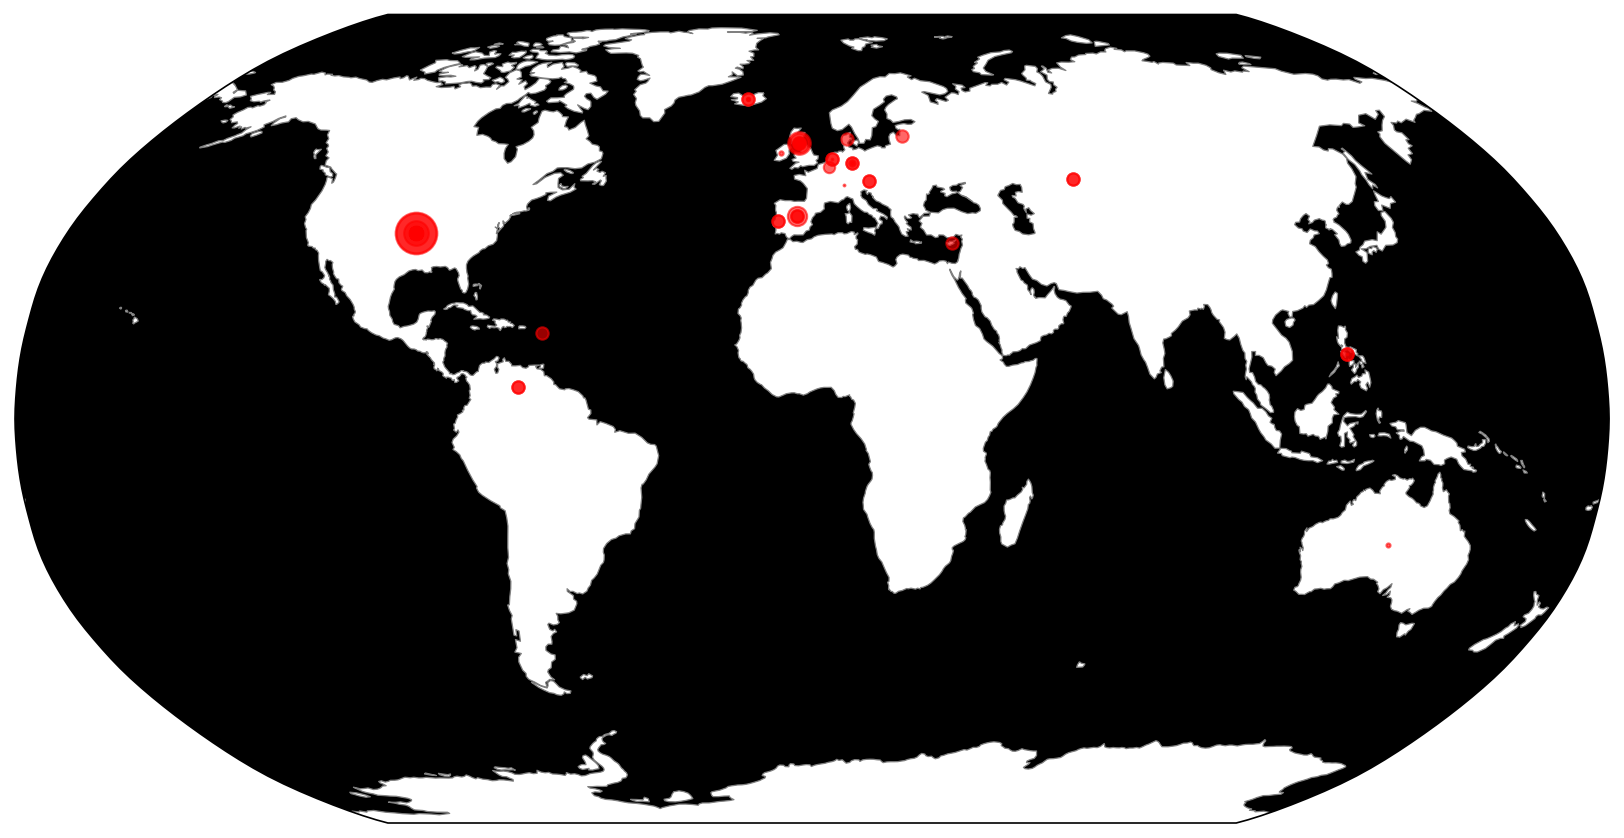
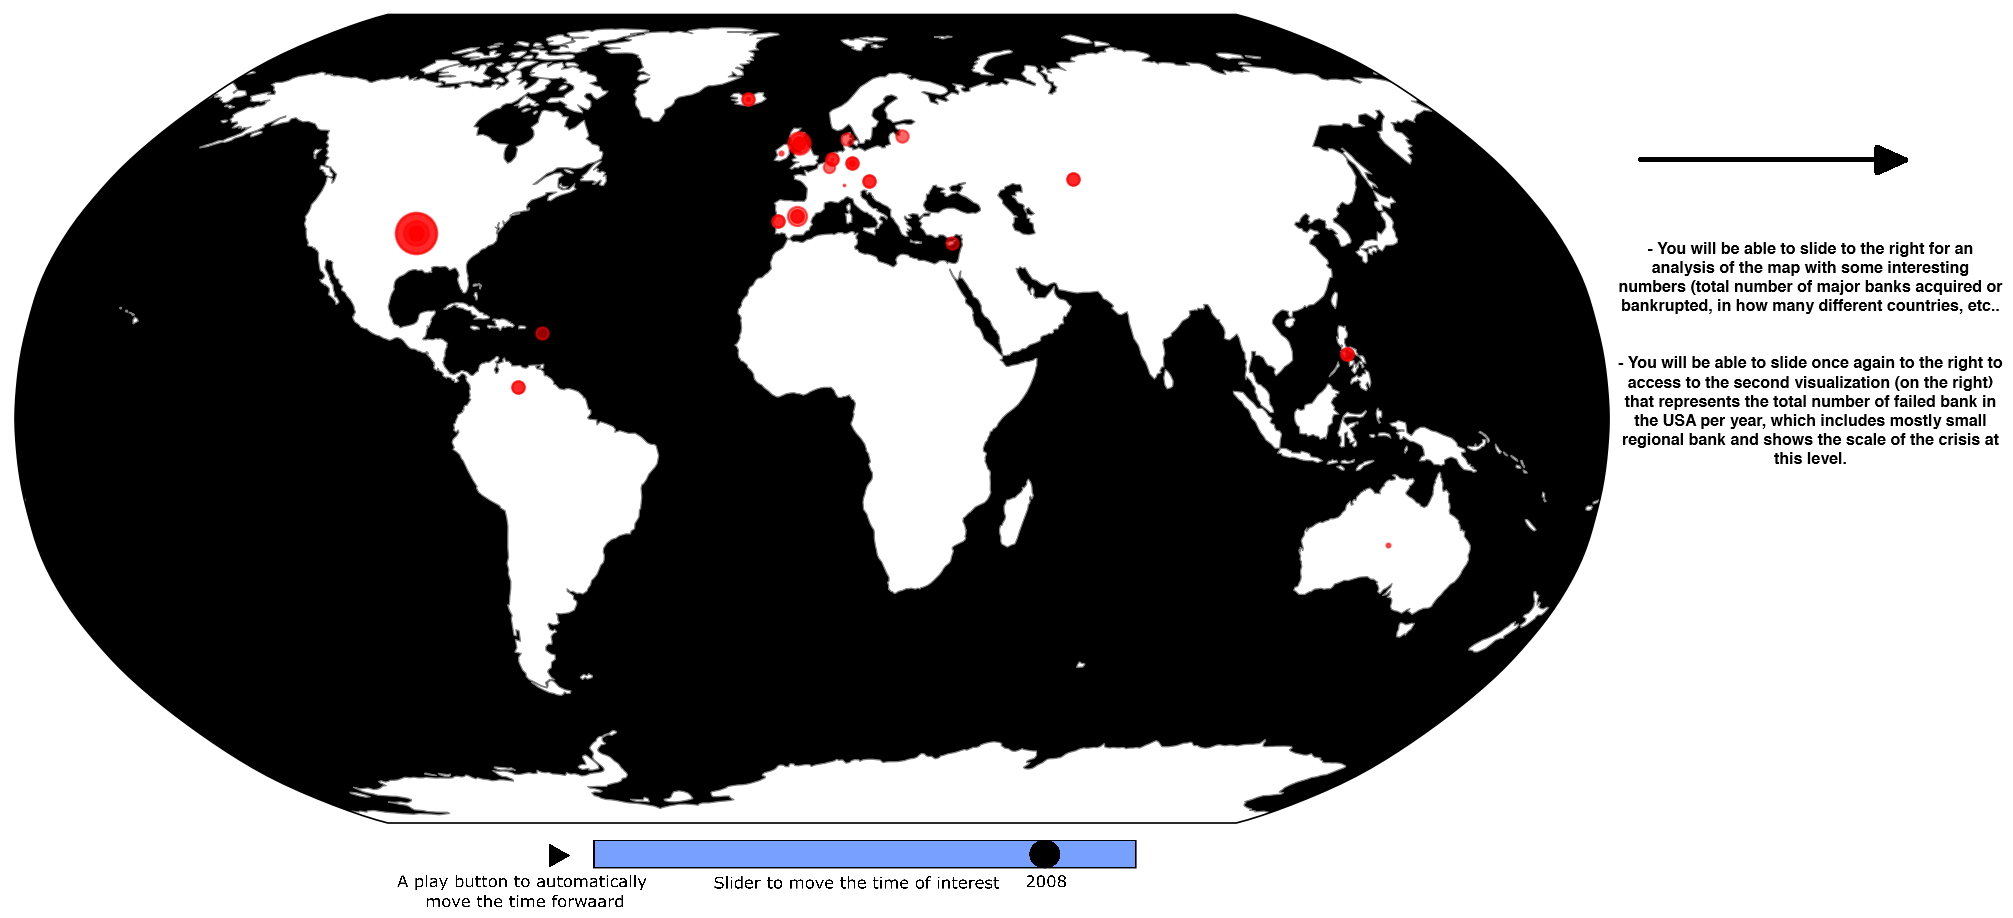
text for Eliot's parts

diff --git a/index.html b/index.html
@@ -26,19 +26,22 @@
             <p>Your content here</p>
         </div>
         <div class="section" id="effectonthefinancialindustry">
-            <h2>The Collapse of the Financial Industry 3</h2>
-            <div class="image-container">
-                <img src="src/Images/frame_085.png" alt="World_map_bank_collapse" class="section-image">
-                <img src="src/Images/failedbankinusa.png" alt="World_map_bank_collapse" class="section-image">
+            <h2>The collapse of the Financial Institutions</h2>
+            <div class="double-image-container">
+                <img src="src/Images/frame_085.png" alt="World_map_bank_collapse" class="double-section-image">
+                <img src="src/Images/failedbankinusa.png" alt="World_map_bank_collapse" class="double-section-image">
             </div>
-            <p>Your content here</p>
+            <p>Those two visualization will allow the user to get a broad view of the scale of the financial institutions around the world. The first one is a <strong>dynamic world map</strong> that shows the major financial institutions acquired or bankrupt around the world due to the financial crisis, with the size of the bubbles proportional to the cumulative size of the transactions in this country. After sliding to the right twice, past an analysis of the map, the user will have access to another visualization with a <strong>bar chart</strong> of the USA regional bank collapse number.</p>
+            <p>Features : The user will be able to see either the evolution of the propogation automatically or move in time with a slider. It will also be able to click on the bubble to see details / facts on the transactions in this country. On the bar chart, the user will be able to see the number of failure by hovering its mouse on the bars.</p>
+            <p>We will use a csv file for the data (Lecture 4) and <strong>D3 and Leaflet</strong> to create a map with interactions like zooming, clicking on the bubbles,etc. (Lecture 5). For the bar chart, we will eventually partition the data to have a more interesting bar charts, maybe with different colors for the size of the bank, if there was an acquirer or no, etc. (Lecture 5) </p>
         </div>
         <div class="section" id="sectionstockmarket">
             <h2>The Stock Market Shock </h2>
-            <div class="image-container">
-                <img src="src/Images/stockmarket.png" alt="stock_market" class="section-image">
+            <div class="double-image-container">
+                <img src="src/Images/stockmarket.png" alt="stock_market" class="double-section-image">
+                <img src="src/Images/barchartloss.png" alt="loss" class="double-section-image">
             </div>
-            <p>Your content here</p>
+            <p>Here we will use d3 to plot the chart has it can easily handle multiple time series and include interactive functionnalities. (Lecture 4)</p>
         </div>
         <div class="section" id="section4">
             <h2>Words cloud on Google Trends</h2>

diff --git a/css/style.css b/css/style.css
@@ -163,15 +163,17 @@ html, body {
     transition: transform 0.3s ease;
 }
 
-#effectonthefinancialindustry .image-container {
+.double-image-container {
     display: flex;
     justify-content: center;
     align-items: center;
     gap: 20px;
 }
 
-#effectonthefinancialindustry .section-image {
-    width: 80%;
+.double-section-image {
+    max-width: 50%;
     height: auto;
-    object-fit: contain;
+    border-radius: 8px;
+    box-shadow: 0 4px 8px rgba(0, 0, 0, 0.1);
+    transition: transform 0.3s ease;
 }
